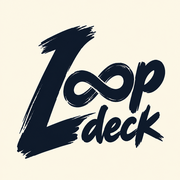
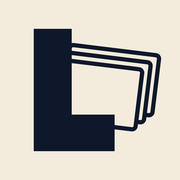
feat(pwa): icono nuevo de la app, la L con tres tarjetas (#109)
Sustituye el icono de pincel por la L lisa con tres tarjetas alargadas
superpuestas, en tinta sobre papel. Los archivos pasan a llamarse -deck
para que navegadores y PWA instaladas no sirvan el icono antiguo de cache;
favicon.ico y apple-touch-icon.png (rutas por defecto) llevan el mismo dibujo.

Changed region(s): [[0.0833, 0.1389, 0.9167, 0.8889]]

diff --git a/frontend/index.html b/frontend/index.html
@@ -21,7 +21,7 @@
       property="og:description"
       content="Crea mazos, importa notas y repasa con repetición espaciada. Gratis, en el móvil o el ordenador."
     />
-    <meta property="og:image" content="https://loopdeck.raclos.es/loopdeck-brush-512.png" />
+    <meta property="og:image" content="https://loopdeck.raclos.es/loopdeck-deck-512.png" />
     <meta property="og:image:width" content="512" />
     <meta property="og:image:height" content="512" />
     <meta property="og:image:alt" content="Logotipo de LoopDeck" />
@@ -31,7 +31,7 @@
       name="twitter:description"
       content="Crea mazos, importa notas y repasa con repetición espaciada. Gratis, en el móvil o el ordenador."
     />
-    <meta name="twitter:image" content="https://loopdeck.raclos.es/loopdeck-brush-512.png" />
+    <meta name="twitter:image" content="https://loopdeck.raclos.es/loopdeck-deck-512.png" />
     <script type="application/ld+json">
       {
         "@context": "https://schema.org",
@@ -62,9 +62,9 @@
     <meta name="apple-mobile-web-app-title" content="LoopDeck" />
     <meta name="mobile-web-app-capable" content="yes" />
     <meta name="application-name" content="LoopDeck" />
-    <link rel="icon" type="image/x-icon" href="/favicon-brush.ico" sizes="16x16 32x32 48x48" />
-    <link rel="icon" type="image/png" href="/loopdeck-brush-192.png" sizes="192x192" />
-    <link rel="apple-touch-icon" href="/apple-touch-icon-brush.png" />
+    <link rel="icon" type="image/x-icon" href="/favicon-deck.ico" sizes="16x16 32x32 48x48" />
+    <link rel="icon" type="image/png" href="/loopdeck-deck-192.png" sizes="192x192" />
+    <link rel="apple-touch-icon" href="/apple-touch-icon-deck.png" />
     <link rel="manifest" href="/manifest.json" />
     <title>LoopDeck · Tarjetas de estudio con repetición espaciada, gratis</title>
     <!-- Pinta el fondo antes de que lleguen el CSS y el JS, y muestra el icono solo si el arranque tarda. -->
@@ -126,7 +126,7 @@
     />
   </head>
   <body>
-    <div id="boot-splash" aria-hidden="true"><img src="/loopdeck-brush-192.png" alt="" /></div>
+    <div id="boot-splash" aria-hidden="true"><img src="/loopdeck-deck-192.png" alt="" /></div>
     <!-- Fuente de color para la barra de estado de la app instalada en iOS; ver .ios-status-bar-band. -->
     <div class="ios-status-bar-band" aria-hidden="true"></div>
     <div id="root"></div>

diff --git a/frontend/e2e/app-icon.spec.ts b/frontend/e2e/app-icon.spec.ts
@@ -1,6 +1,6 @@
 import { test, expect } from '@playwright/test';
 
-test('installation uses one manifest and correctly sized brush icons', async ({
+test('installation uses one manifest and correctly sized app icons', async ({
   page,
   request,
 }) => {
@@ -21,10 +21,10 @@ test('installation uses one manifest and correctly sized brush icons', async ({
   }
   await expect(page.locator('link[rel="apple-touch-icon"]')).toHaveAttribute(
     'href',
-    '/apple-touch-icon-brush.png',
+    '/apple-touch-icon-deck.png',
   );
   await expect(page.locator('link[rel="icon"][type="image/x-icon"]')).toHaveAttribute(
     'href',
-    '/favicon-brush.ico',
+    '/favicon-deck.ico',
   );
 });
